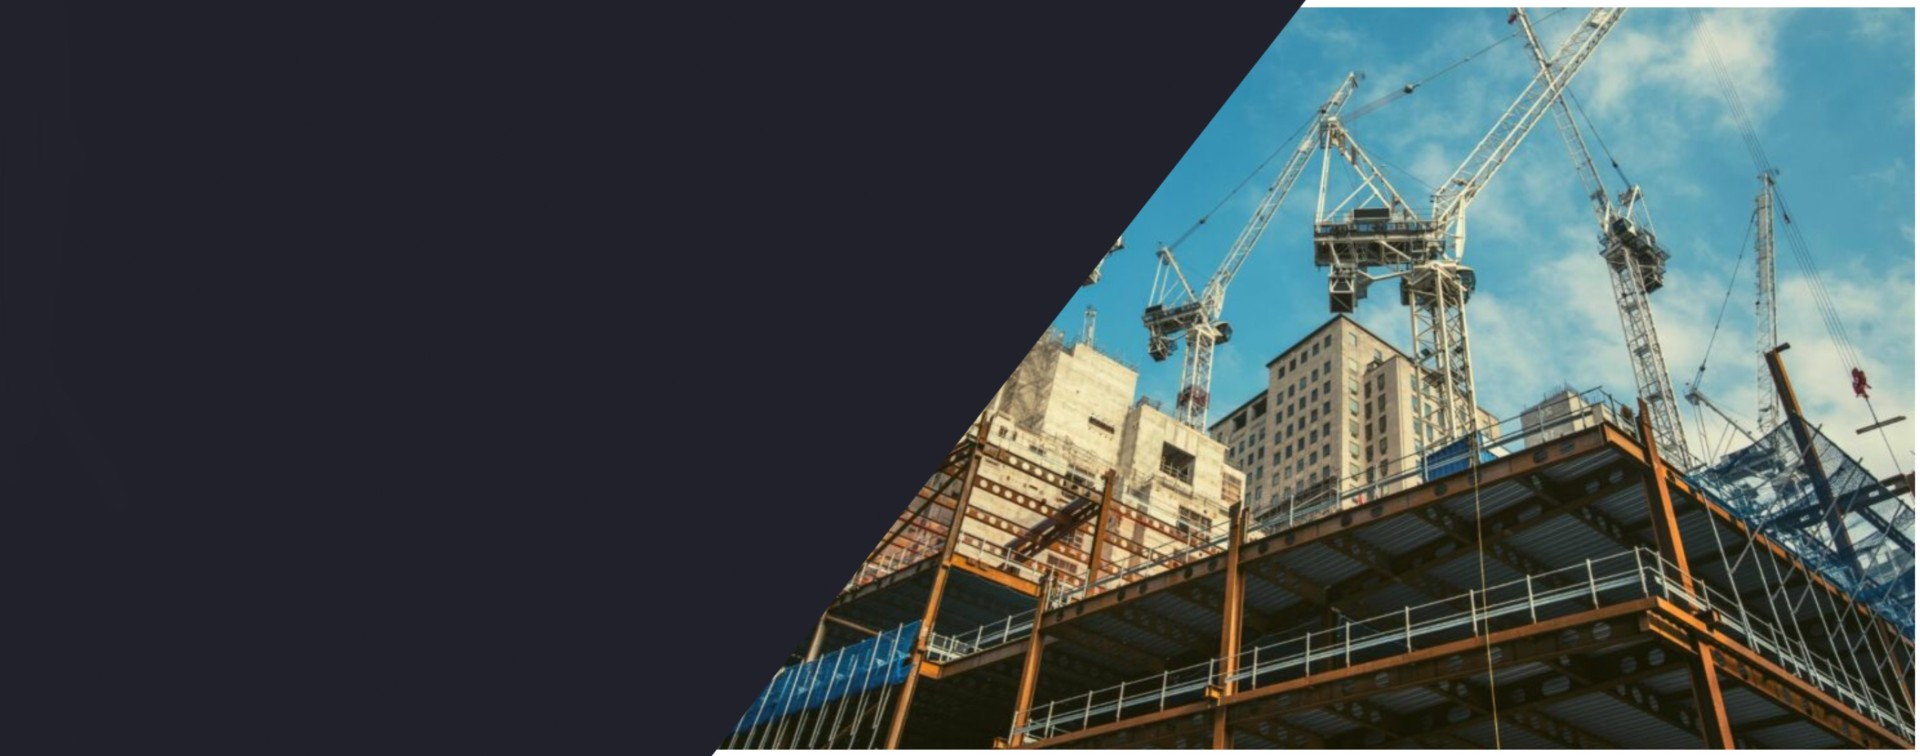
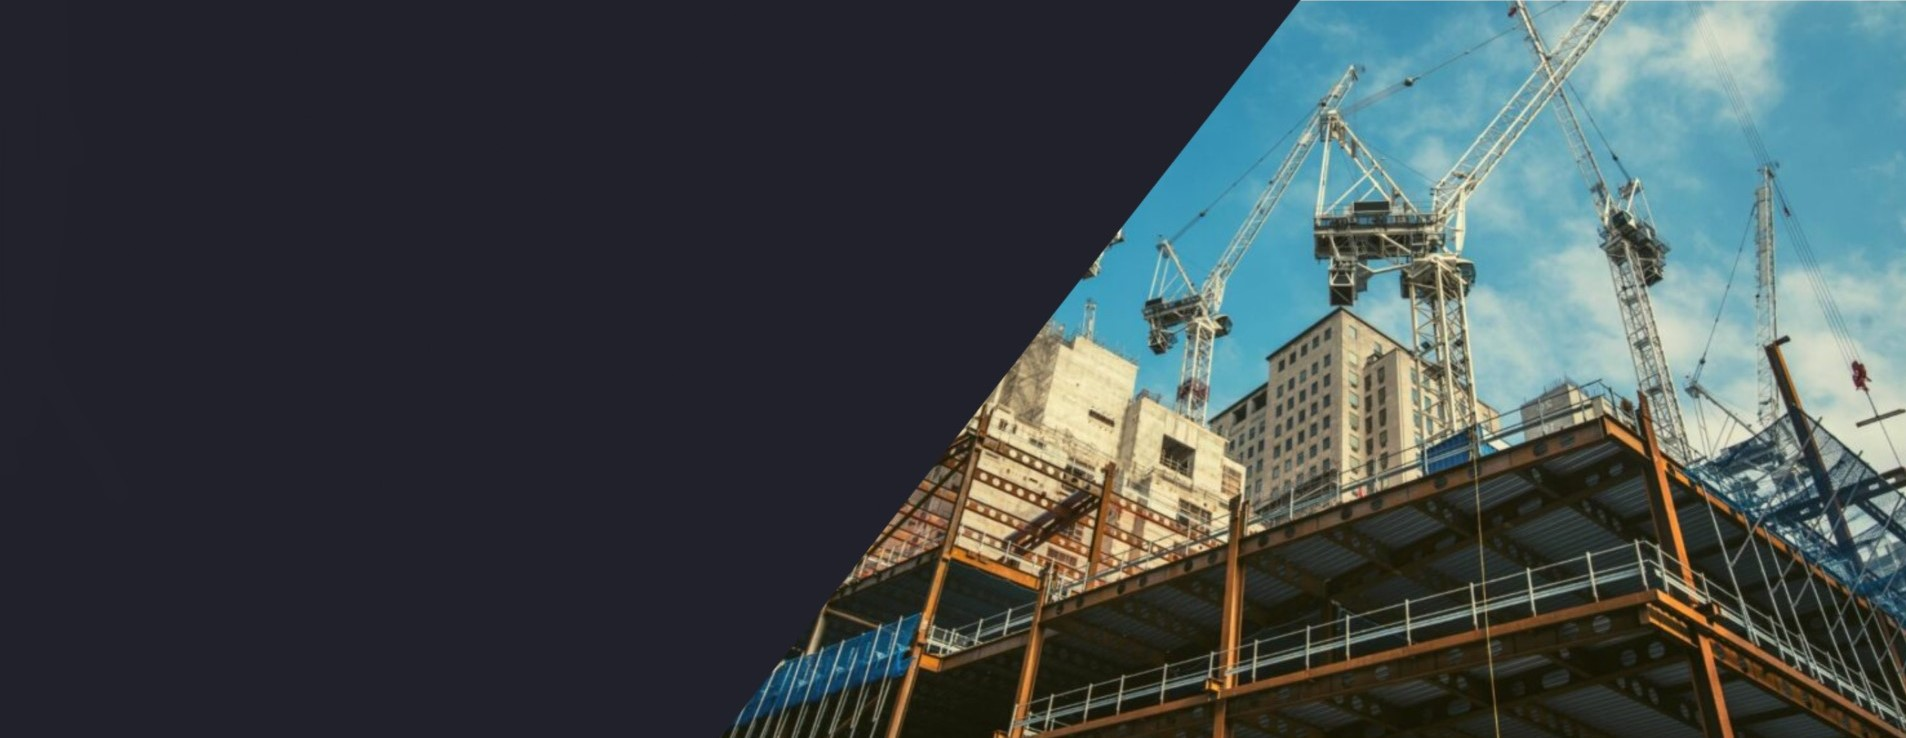
margin top

Changed region(s): [[0.3715, 0.0, 1.0, 1.0], [0.6191, 0.1247, 0.6501, 0.187]]

diff --git a/client/src/homepage.css b/client/src/homepage.css
@@ -300,17 +300,17 @@ body {
     max-width: 100%;
   }
 }
-/* @media (max-width: 768px) {
+
+@media (max-width: 768px) {
   .homepage {
     background-color: black;
     background-image: none;
   }
-} */
-@media (max-width: 768px) {
   .welcome {
     background-color: rgba(32, 33, 43, 1);
     padding: 20px;
-    padding-top: 60px;
+    margin-top: -10%;
+    padding-top: 40px;
     min-height: 400px;
   }
   .welcome-text {
